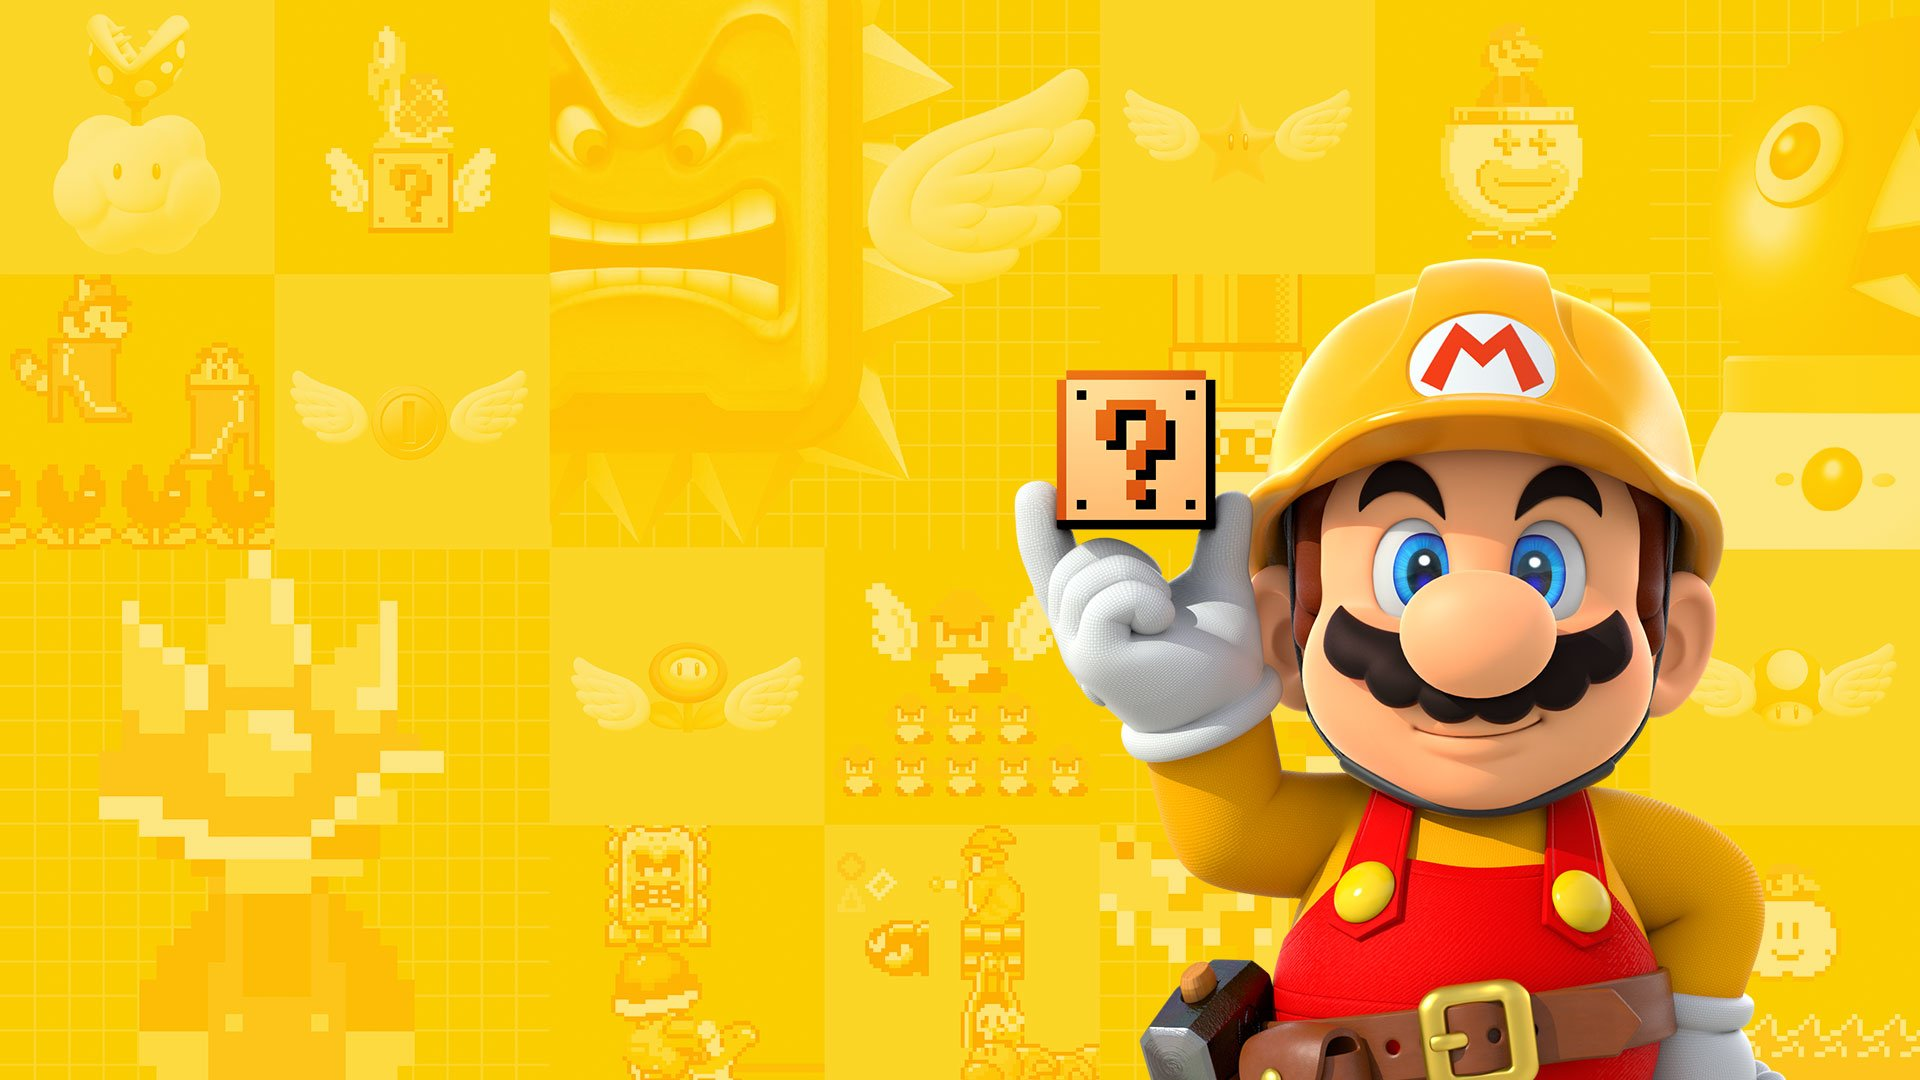
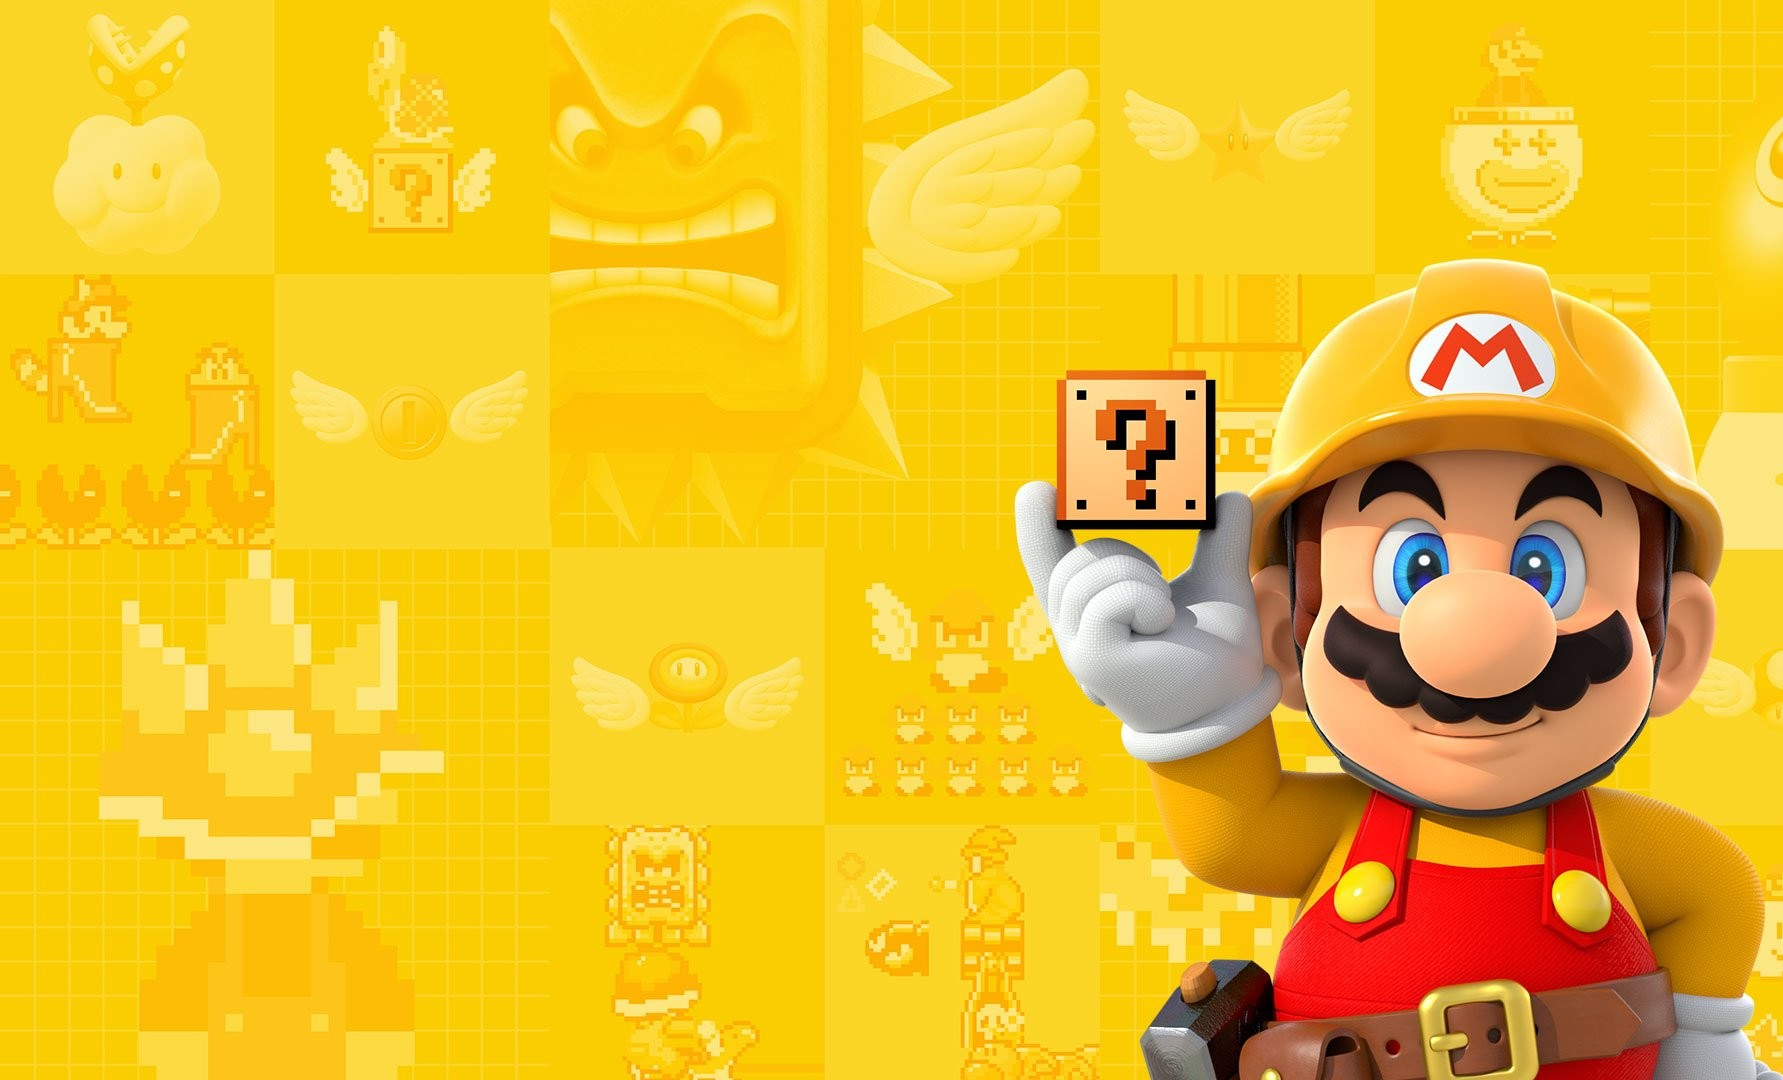
responsive whack-a-mole done

diff --git a/whack a mole/mole.css b/whack a mole/mole.css
@@ -6,6 +6,15 @@
     box-sizing: border-box;
 }
 
+html,
+body {
+  overflow-x: hidden;
+  display:flex;
+  flex-direction: column;
+  min-height: 100vh;
+  margin: 0;
+}
+
 nav {
     background-color: #7091e6;
     position: sticky;
@@ -19,11 +28,10 @@ nav {
 
 .list {
     display: flex;
-    gap: 6vw;
+    gap: 3.8vw;
     list-style: none;
     font-size: 25px;
     color: whitesmoke;
-
     font-family: sans-serif;
 }
 
@@ -40,11 +48,11 @@ li {
 a {
     text-decoration: none;
     color: #3d52a0;
+    font-size: 1.5vw;
 }
 
 li:hover {
     background-color: #164edb;
-
     cursor: pointer;
     transition-duration: 0.02s;
 }
@@ -59,13 +67,30 @@ body {
     background: url("../assests/mario-bg.jpg");
     background-size: cover;
     overflow-x: hidden;
+    background-position: right;
 
 }
 
-#score {
-    font-family: "Bebas Neue", sans-serif;
+.start{
+    background-color: #7091e6;
+    border-radius: 5px;
+    border:2px ridge rgb(23, 23, 60);
+    width: 150px;
+    height: 50px;
+    font-size: 20px;
+    font-family: 'Courier New', Courier, monospace;
+    font-weight: 600;
+    margin-bottom: 10px;
+}
 
+#score {
+    font-family: 'Courier New', Courier, monospace;
+    font-weight: 500;
     font-size: 5vh;
+}
+
+.wrapper{
+    display: none;
 }
 
 h1 {
@@ -79,13 +104,11 @@ h1 {
 #board {
     width: 540px;
     height: 540px;
-
-
     margin: 8vh auto;
-    display: flex;
-
-    flex-wrap: wrap;
-
+    display: grid;
+    grid-template-columns: repeat(3,1fr);
+    grid-template-rows: repeat(3,1fr);
+    padding-bottom: 10vh;
     background: url("../assests/soil.png");
     background-size: cover;
     border: 3px solid white;
@@ -106,15 +129,18 @@ h1 {
 
 footer {
     background-color: #3d52a0;
-    padding-bottom: 20px;
+    padding-bottom: 5px;
     width: 100vw;
     font-size: 2vw;
-    position: static;
+    height: 20vh;
+}
+main {
+    flex:1;
 }
 
 .credits {
     color: whitesmoke;
-    font-size: 25px;
+    font-size: 1.5vw;
     font-family: sans-serif;
 }
 
@@ -123,4 +149,116 @@ footer {
     padding: 5px;
     border-radius: 3px;
     font-size: 2vw;
+}
+
+.container2 {
+  display: flex;
+  flex-direction: column;
+  justify-content: center;
+  align-items: center;
+  gap: 7px;
+  padding-top: 20px;
+}
+
+h1{
+    font-size: 4.5vw;
+}
+
+@media screen and (max-width:987px) {
+    nav {
+        background-color: #7091e6;
+        position: fixed;
+        display: flex;
+        justify-content: space-between;
+        align-items: center;
+        width: 100vw;
+        height: 8vh;
+        z-index: 80;
+    }
+
+    .right {
+        display: none;
+    }
+
+    .left {
+        margin: auto;
+        transform: translateY(-3px);
+    }
+
+    footer {
+        background-color: #3D52A0;
+        height: 150px;
+        padding-top: 10px;
+
+    }
+
+    .credits{
+        font-size: 2vw;
+    }
+
+    #board{
+        width: 60vw;
+        height: 60vw;
+    }
+
+    #board div {
+        width: 19.5vw;
+        height: 19.5vw;
+        background-image: url("../assests/pipe.png");
+        background-size: cover;
+    }
+
+    #board div img {
+        width:11vw;
+        height:11vw;
+    }
+
+    h1{
+        font-size: 6.5vw;
+    }
+}
+
+@media screen and (max-width:700px){
+    h1{
+        font-size: 9vw;
+    }
+    .credits{
+        font-size: 2.5vw;
+    }
+}
+@media screen and (max-width:500px){
+    #board{
+        width: 80vw;
+        height: 80vw;
+    }
+
+    #board div {
+        width:26vw;
+        height:26vw;
+        background-image: url("../assests/pipe.png");
+        background-size: cover;   
+    }
+
+    #score{
+        font-size:7vw ;
+    }
+
+
+
+    #board div img {
+         width:15vw;
+         height:15vw;
+    }
+
+    h1{
+        font-size: 11vw;
+    }
+
+    .credits{
+        font-size: 3.5vw;
+    }
+
+    footer{
+        height: 120px;
+    }
 }

diff --git a/whack a mole/mole.html b/whack a mole/mole.html
@@ -17,23 +17,46 @@
         <div class="right">
             <ul class="list">
                 <li><a href="../FlappyBird/FlappBird.html"> Flappy Bird </a></li>
-                <li><a href="tictactoe.html"> Tic-Tac Toe </a></li>
+                <li><a href="../Tictactoe/tictactoe.html"> Tic-Tac Toe </a></li>
                 <li><a href="../Wordle/wordle.html"> Wordle </a></li>
                 <li><a href="../TypingGame/TypingGame.html"> Typing Game </a></li>
+                <li><a href="./mole.html"> Whack-a-mole </a></li>
+                 <li><a href="../SnakeGame/SnakeGame.html"> SnakeGame </a></li>
+
             </ul>
         </div>
     </nav>
 
+    </br>
+    </br></br>
 
-    <h1> Whac a mole</h1>
+
+   <main>
+     <h1>Whack-a-mole</h1>
+
+    <button class="start">Start Game</button>
+
+    <hr>
     <div id="score"> YOUR SCORE:0 </div>
+    <hr>
     <div class="wrapper">
-        <div id="board"></div>
+        <div id="board">
+            <div class="tile" id="0"></div>
+            <div class="tile" id="1"></div> 
+            <div class="tile" id="2"></div>
+            <div class="tile" id="3"></div>
+            <div class="tile" id="4"></div>
+            <div class="tile" id="5"></div>
+            <div class="tile" id="6"></div>
+            <div class="tile" id="7"></div>
+            <div class="tile" id="8"></div>
+        </div>
     </div>
+   </main>
 
     <footer>
         <div class="container2">
-            <div class="credits">Thank you for looking at this masterpiece for TicTacToe!</div>
+            <div class="credits">Thank you for looking at this masterpiece for Whack-a-Mole!</div>
             <div class="credits">The game was specifically made by :</div>
             <div class="credits">Vanshika and Vishruthi</div>
             <div class="credits">Hope you liked it!</div>

diff --git a/whack a mole/mole.js b/whack a mole/mole.js
@@ -2,10 +2,23 @@ let currMoleTile;
 let currPiranhaTile;
 let score=0;
 let gameOver = false;
+let tile=document.querySelectorAll('.tile');
 
-window.onload = function(){
-    setGame();
-}
+let btn=document.querySelector('.start');
+let wrapper=document.querySelector('.wrapper');
+
+
+btn.addEventListener('click', ()=>{
+    if(btn.textContent==='Start Game'){
+             setGame();
+    btn.style.display='none';
+    wrapper.style.display='block';
+    }
+    else{
+        location.reload();
+    }
+});
+
 
 function selectTile(){
 
@@ -20,19 +33,18 @@ function selectTile(){
     else if(this==currPiranhaTile){
         document.getElementById("score").innerText = "GAME OVER: " + score.toString();
         gameOver = true;
+        btn.style.display='inline';
+        btn.textContent='New game';
     }
 }
 
 function setGame(){
     //set up the grid for the game board
-    for(let i=0; i<9; i++){
-        let tile = document.createElement("div");
-        tile.id=i.toString();
-        document.getElementById("board").appendChild(tile);
-        tile.addEventListener('click', selectTile);
+    for(let i=0; i<9; i++){        
+        tile[i].addEventListener('click', selectTile);
     }
-    setInterval(setMole, 1200);
-    setInterval(setPiranha, 1200);
+    setInterval(setMole, 1500);
+    setInterval(setPiranha, 1500);
 }
 
 function getRandomTile() {
